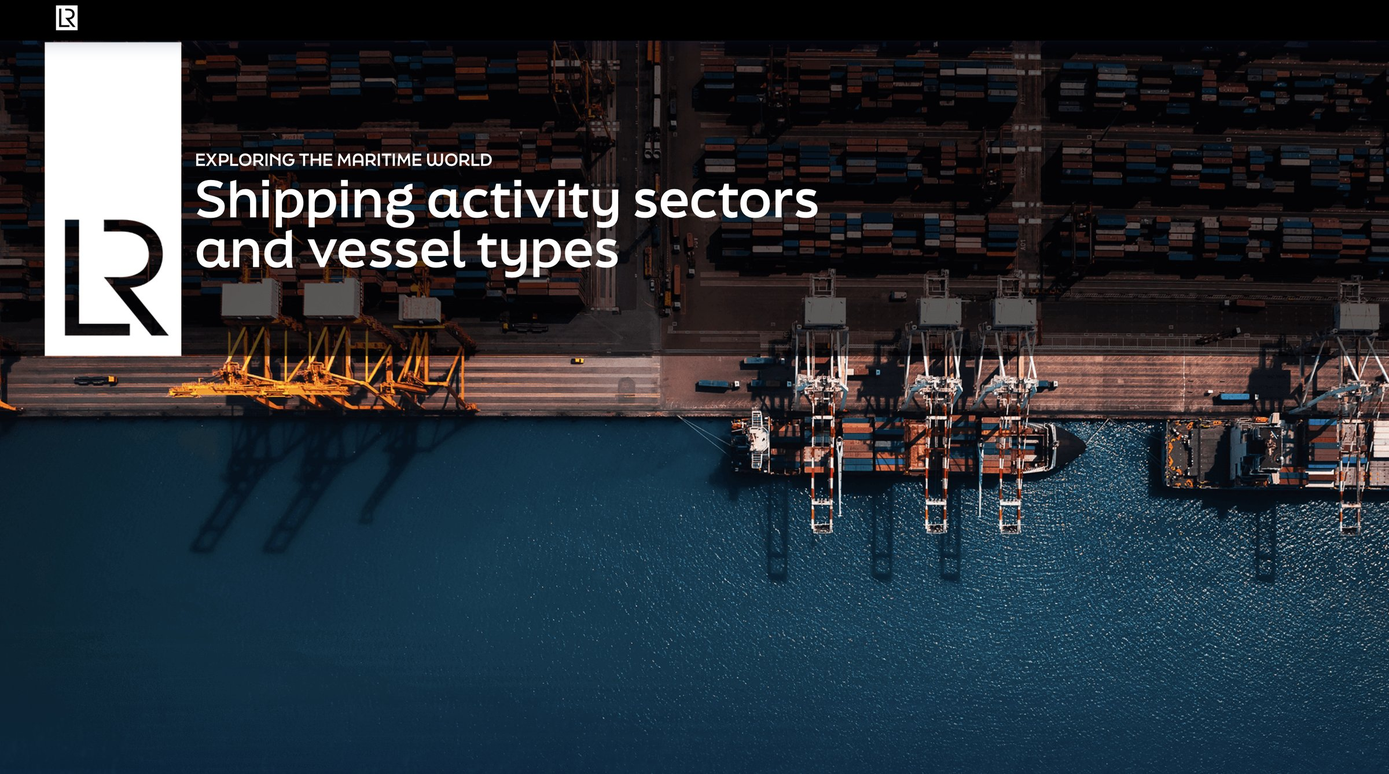
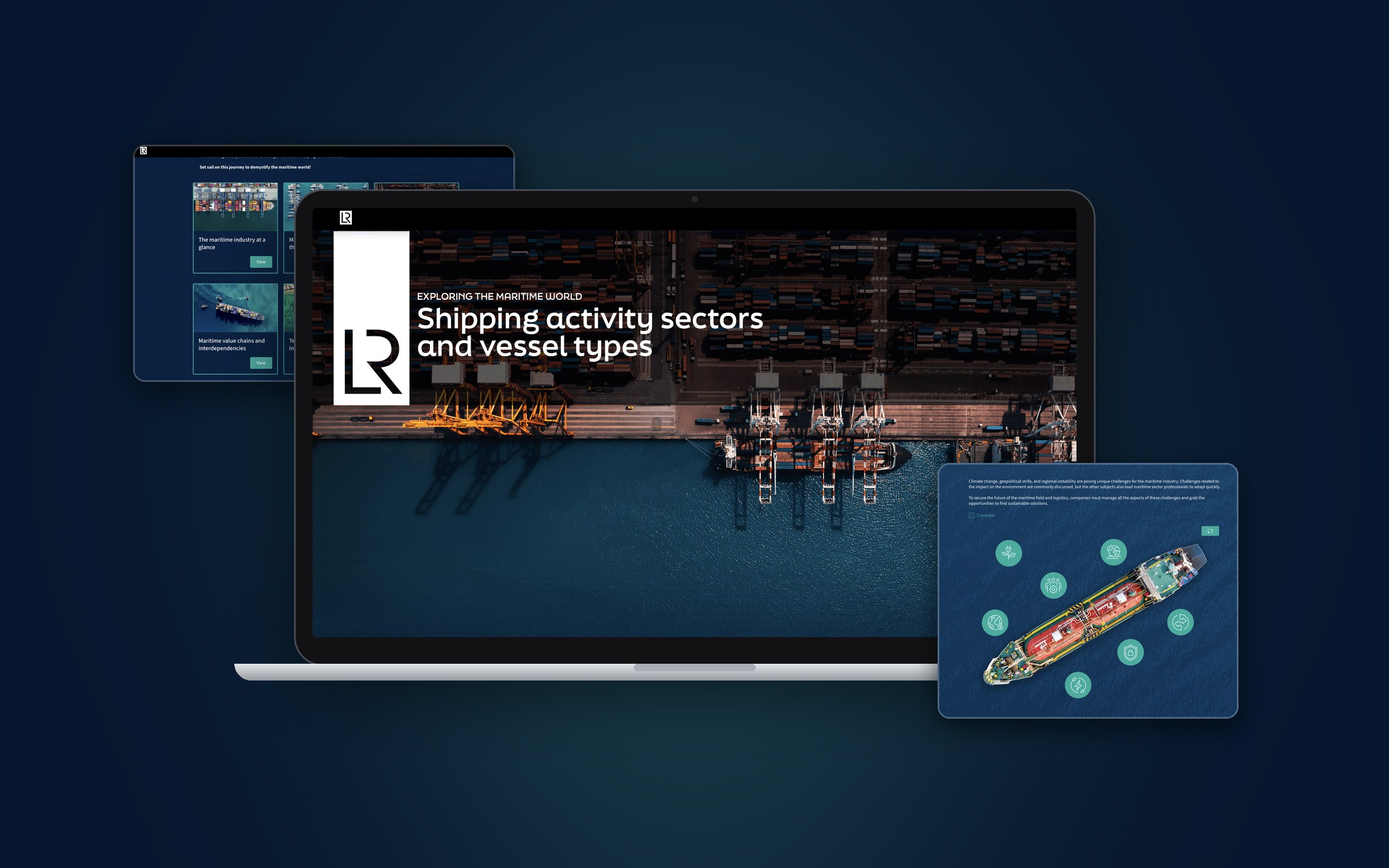
Lloyd's Register: laptop mockup cover
Claude-Session: https://claude.ai/code/session_01YQUsU2nUn4XE2AzWPA4DsK

diff --git a/src/content/projects/lloyds-register/index.md b/src/content/projects/lloyds-register/index.md
@@ -7,7 +7,7 @@ order: 2
 featured: true
 
 cover: ./cover.jpg
-coverAlt: Course title screen "Shipping activity sectors and vessel types" over an aerial view of a container port, with the Lloyd's Register logo
+coverAlt: Laptop showing the course title screen "Shipping activity sectors and vessel types" over an aerial view of a container port, with the course menu and the challenges and opportunities screen floating beside it on a deep navy background
 
 snapshot:
   role: Digital designer, responsible for the visual design, UI, graphics and animation style
